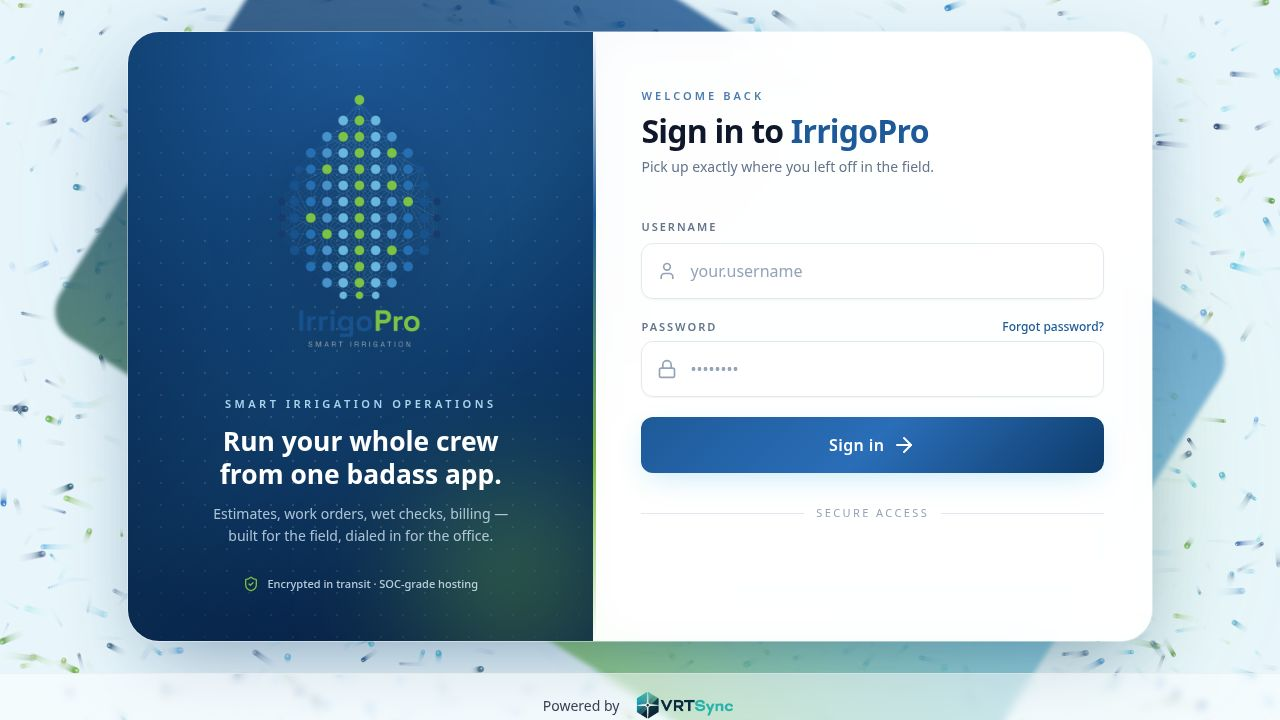
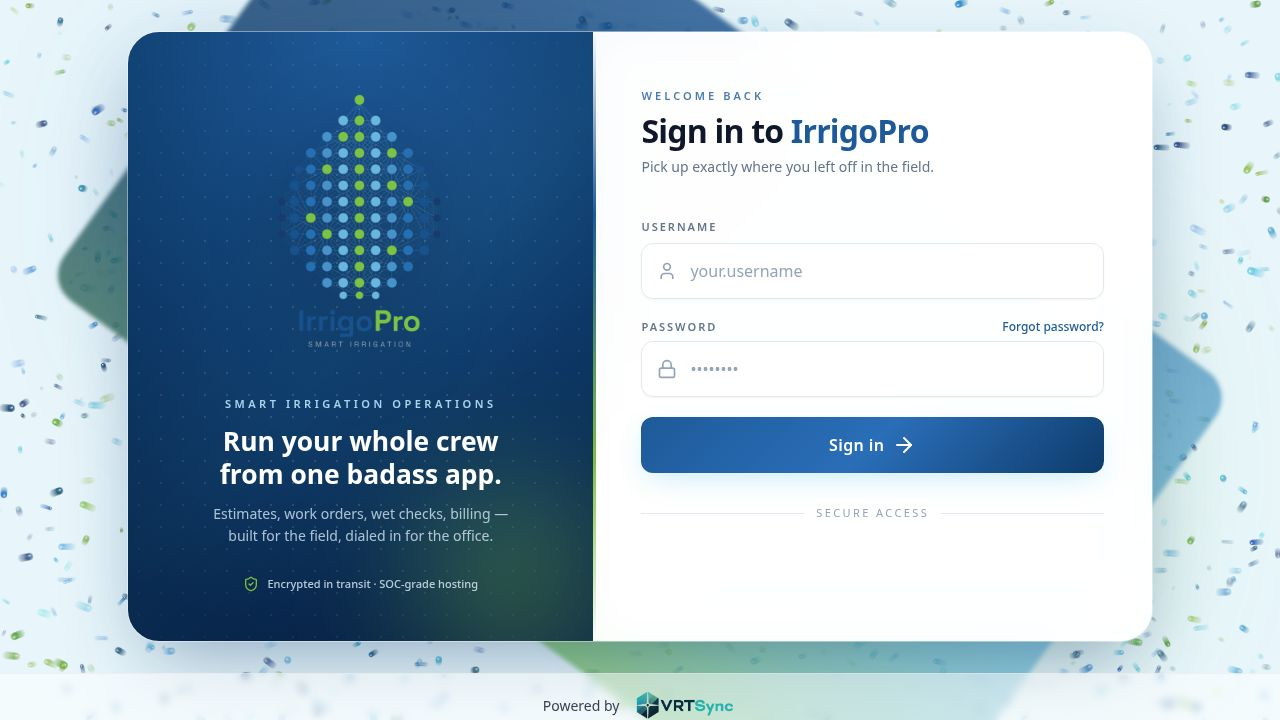
Fix deployment build failure and clean up all typecheck errors
Original task: debug/fix the published build failure, then clear every
`pnpm run typecheck` error across the monorepo.

Deployment blocker (frontend typecheck, which gates `vite build`):
- nav-config.ts: added missing "wetCheckReviews" to the NavBadgeKey union.
- line-items-editor.tsx: wrapped the Lucide <BookOpen> icon in a <span
  title=...> instead of passing aria-label/title directly to the icon.

api-server typecheck cleanup (test-only + session typing; does not affect
the esbuild deploy build but breaks `pnpm run typecheck`):
- types/express.d.ts: replaced the hand-written `session` property on
  Express.Request with a `declare module "express-session"` SessionData
  augmentation (userId/companyId/role). This resolves the intermittent
  "userId does not exist on Session & Partial<SessionData>" errors and
  keeps native regenerate/save/destroy. Kept all other Request
  augmentations.
- PDF test fixtures: added required WcvZone fields (zoneRecordId,
  repairLaborManuallySet, zonePhotoUrls), PdfWorkOrderRow/
  PdfBillingSheetRow fields (controllerLetter, zoneNumber), and
  WetCheckBillingView fields (totalsSource, zonesHaveStaleLaborData).
- wet-check-inspection-estimate.test.ts: widened STUB_WC.fullyConvertedAt
  to `string | null` to match the reverted payload shape.
- billing-workspace-role-access.test.ts: buildApp now takes an optional
  companyId arg passed through to makeAuth.
- zone-labor-auto-compute-routes.test.ts: wrapped req.params.id in
[…]

diff --git a/artifacts/api-server/src/types/express.d.ts b/artifacts/api-server/src/types/express.d.ts
@@ -1,16 +1,16 @@
 export {};
 
+declare module "express-session" {
+  interface SessionData {
+    userId?: number;
+    companyId?: number;
+    role?: string;
+  }
+}
+
 declare global {
   namespace Express {
     interface Request {
-      session: Record<string, unknown> & {
-        userId?: number;
-        companyId?: number;
-        role?: string;
-        destroy(callback: (err?: Error) => void): void;
-        save(callback?: (err?: Error) => void): void;
-        regenerate(callback: (err?: Error) => void): void;
-      };
       authenticatedUserId?: number;
       authenticatedUserRole?: string;
       authenticatedUserCompanyId?: number | null;

diff --git a/artifacts/api-server/src/pdf-helpers-wcb.test.ts b/artifacts/api-server/src/pdf-helpers-wcb.test.ts
@@ -18,6 +18,7 @@ import assert from "node:assert/strict";
 import { ticketPageWCB, ticketPageBS, ticketPageWO, partsBlockForWetCheckBS, FAILED_PHOTO_SENTINEL, buildFullCSS, JOB_TYPE_COLORS } from "./pdf-helpers";
 import type { WcbZonePhotoGroupResolved } from "./pdf-helpers";
 import { DEFAULT_BRAND_COLORS } from "./pdf-view-model";
+import type { PdfWorkOrderRow, PdfBillingSheetRow } from "./pdf-view-model";
 import type { PdfWetCheckBillingRow } from "./pdf-view-model";
 import type { WetCheckBillingView } from "./wet-check-billing-view";
 
@@ -195,7 +196,10 @@ function makeWetCheckView(): WetCheckBillingView {
         controllerLetter: "A",
         zoneNumber: 1,
         zoneLabel: "A-1",
+        zoneRecordId: 101,
         repairLaborHours: "1.00",
+        repairLaborManuallySet: false,
+        zonePhotoUrls: [],
         lineItems: [
           {
             findingId: 1,
@@ -210,6 +214,7 @@ function makeWetCheckView(): WetCheckBillingView {
             lineTotal: "55.00",
             noPartNeeded: false,
             notes: null,
+            findingPhotoUrls: [],
           },
         ],
         zonePartsSubtotal: "15.00",
@@ -220,7 +225,10 @@ function makeWetCheckView(): WetCheckBillingView {
         controllerLetter: "B",
         zoneNumber: 2,
         zoneLabel: "B-2",
+        zoneRecordId: 102,
         repairLaborHours: "0.50",
+        repairLaborManuallySet: false,
+        zonePhotoUrls: [],
         lineItems: [
           {
             findingId: 2,
@@ -235,6 +243,7 @@ function makeWetCheckView(): WetCheckBillingView {
             lineTotal: "60.00",
             noPartNeeded: false,
             notes: null,
+            findingPhotoUrls: [],
           },
         ],
         zonePartsSubtotal: "20.00",
@@ -246,6 +255,8 @@ function makeWetCheckView(): WetCheckBillingView {
     partsSubtotal: "35.00",
     laborSubtotal: "80.00",
     grandTotal: "115.00",
+    totalsSource: "live_derive",
+    zonesHaveStaleLaborData: false,
   };
 }
 
@@ -415,6 +426,8 @@ const minimalWO: PdfWorkOrderRow = {
   projectName: "Test Project",
   projectAddress: "1 Main St",
   branchName: null,
+  controllerLetter: null,
+  zoneNumber: null,
   locationNotes: "",
   technicianName: "Tech A",
   completedAt: null,
@@ -437,6 +450,8 @@ const minimalBS: PdfBillingSheetRow = {
   workDescription: "",
   propertyAddress: "1 Main St",
   branchName: null,
+  controllerLetter: null,
+  zoneNumber: null,
   technicianName: "Tech B",
   workDate: new Date("2026-05-15"),
   totalHours: 1,

diff --git a/artifacts/api-server/src/pdf-helpers-wet-check.test.ts b/artifacts/api-server/src/pdf-helpers-wet-check.test.ts
@@ -31,7 +31,10 @@ const FIXTURE: WetCheckBillingView = {
       controllerLetter: 'A',
       zoneNumber: 1,
       zoneLabel: 'A-1',
+      zoneRecordId: 101,
       repairLaborHours: '1.50',
+      repairLaborManuallySet: false,
+      zonePhotoUrls: [],
       lineItems: [
         {
           findingId: 1,
@@ -46,6 +49,7 @@ const FIXTURE: WetCheckBillingView = {
           lineTotal: '86.25',
           noPartNeeded: false,
           notes: null,
+          findingPhotoUrls: [],
         },
         {
           // labor-only: noPartNeeded=true, partsTotal=$0 — must appear
@@ -61,6 +65,7 @@ const FIXTURE: WetCheckBillingView = {
           lineTotal: '18.75',
           noPartNeeded: true,
           notes: 'Adjusted spray arc',
+          findingPhotoUrls: [],
         },
         {
           // $0.00 non-labor-only: must be ABSENT
@@ -76,6 +81,7 @@ const FIXTURE: WetCheckBillingView = {
           lineTotal: '37.50',
           noPartNeeded: false,
           notes: null,
+          findingPhotoUrls: [],
         },
       ],
       zonePartsSubtotal: '30.00',
@@ -86,7 +92,10 @@ const FIXTURE: WetCheckBillingView = {
       controllerLetter: 'B',
       zoneNumber: 2,
       zoneLabel: 'B-2',
+      zoneRecordId: 102,
       repairLaborHours: '0.50',
+      repairLaborManuallySet: false,
+      zonePhotoUrls: [],
       lineItems: [
         {
           findingId: 4,
@@ -101,6 +110,7 @@ const FIXTURE: WetCheckBillingView = {
           lineTotal: '52.50',
           noPartNeeded: false,
           notes: null,
+          findingPhotoUrls: [],
         },
       ],
       zonePartsSubtotal: '15.00',
@@ -112,6 +122,8 @@ const FIXTURE: WetCheckBillingView = {
   partsSubtotal: '45.00',
   laborSubtotal: '150.00',
   grandTotal: '195.00',
+  totalsSource: 'live_derive',
+  zonesHaveStaleLaborData: false,
 };
 
 // ── Tests ─────────────────────────────────────────────────────────────────────

diff --git a/artifacts/irrigopro/src/components/billing-workspace/line-items-editor.tsx b/artifacts/irrigopro/src/components/billing-workspace/line-items-editor.tsx
@@ -229,11 +229,9 @@ export function LineItemsEditor({
                     <td className="px-1 py-1">
                       <div className="flex items-center gap-1">
                         {row.partId != null && (
-                          <BookOpen
-                            className="w-3 h-3 text-blue-400 shrink-0"
-                            aria-label="From catalog"
-                            title="From parts catalog"
-                          />
+                          <span title="From parts catalog" className="shrink-0 flex items-center">
+                            <BookOpen className="w-3 h-3 text-blue-400" />
+                          </span>
                         )}
                         <input
                           type="text"

diff --git a/artifacts/api-server/src/routes/zone-labor-auto-compute-routes.test.ts b/artifacts/api-server/src/routes/zone-labor-auto-compute-routes.test.ts
@@ -100,7 +100,7 @@ function buildApp(opts: ServerOpts): Express {
       res.status(403).json({ message: "Forbidden" }); return;
     }
     try {
-      const updated = await storage.resetZoneRepairLabor(parseInt(req.params.id, 10), cid);
+      const updated = await storage.resetZoneRepairLabor(parseInt(String(req.params.id), 10), cid);
       if (!updated) { res.status(404).json({ message: "Not found" }); return; }
       res.json(updated);
     } catch (e: any) {
@@ -120,7 +120,7 @@ function buildApp(opts: ServerOpts): Express {
     }
     try {
       const updated = await storage.setZoneRepairLaborManagerTier(
-        parseInt(req.params.id, 10),
+        parseInt(String(req.params.id), 10),
         cid,
         parsed.data.repairLaborHours,
       );
@@ -142,7 +142,7 @@ function buildApp(opts: ServerOpts): Express {
     if (!parsed.success) {
       res.status(400).json({ message: "Invalid body", issues: parsed.error.issues }); return;
     }
-    const wcbId = parseInt(req.params.id, 10);
+    const wcbId = parseInt(String(req.params.id), 10);
     if (!Number.isFinite(wcbId)) {
       res.status(400).json({ message: "Invalid id" }); return;
     }

diff --git a/artifacts/api-server/src/routes/billing-workspace-role-access.test.ts b/artifacts/api-server/src/routes/billing-workspace-role-access.test.ts
@@ -34,10 +34,10 @@ function makeAuth(role: string, companyId: number | null = 1): RequestHandler {
   };
 }
 
-function buildApp(role: string) {
+function buildApp(role: string, companyId: number | null = 1) {
   const app = express();
   app.use(express.json());
-  const auth = makeAuth(role);
+  const auth = makeAuth(role, companyId);
   registerBillingWorkspaceRoutes(app, { requireAuthentication: auth });
   registerBillingWorkspaceBulkApproveRoutes(app, { requireAuthentication: auth });
   return app;

diff --git a/artifacts/api-server/src/routes/billing-workspace-bulk-approve.test.ts b/artifacts/api-server/src/routes/billing-workspace-bulk-approve.test.ts
@@ -87,7 +87,7 @@ async function post(app: Express, body: unknown) {
       headers: { "Content-Type": "application/json" },
       body: JSON.stringify(body),
     });
-    return { status: r.status, body: await r.json() };
+    return { status: r.status, body: await r.json() as Record<string, any> };
   } finally {
     server.close();
   }

diff --git a/artifacts/api-server/src/routes/wet-check-inspection-estimate.test.ts b/artifacts/api-server/src/routes/wet-check-inspection-estimate.test.ts
@@ -35,7 +35,7 @@ const STUB_WC = {
   id: 7,
   mode: "inspection",
   status: "converted",
-  fullyConvertedAt: new Date().toISOString(),
+  fullyConvertedAt: new Date().toISOString() as string | null,
 };
 
 // ─── Harness ──────────────────────────────────────────────────────────────────

diff --git a/artifacts/api-server/src/routes/work-order-list-tenant-isolation.test.ts b/artifacts/api-server/src/routes/work-order-list-tenant-isolation.test.ts
@@ -86,7 +86,7 @@ function startHarness(): Promise<Harness> {
       resolve({
         baseUrl: `http://127.0.0.1:${port}`,
         storage,
-        close: () => new Promise((r) => server.close(r)),
+        close: () => new Promise<void>((resolve) => server.close(() => resolve())),
       });
     });
   });

diff --git a/artifacts/irrigopro/src/components/layout/nav-config.ts b/artifacts/irrigopro/src/components/layout/nav-config.ts
@@ -27,6 +27,7 @@ import {
 
 export type NavBadgeKey =
   | "partsPendingApproval"
+  | "wetCheckReviews"
   | "estimatesPendingApproval"
   | "awaitingApproval";
 

diff --git a/.agents/memory/session-typing.md b/.agents/memory/session-typing.md
@@ -1,0 +1,31 @@
+---
+name: express session typing
+description: Where custom session fields (userId/companyId/role) must be declared in the api-server
+---
+
+# Express session custom fields belong on express-session's SessionData
+
+Custom session fields (`userId`, `companyId`, `role`) must be added by augmenting
+`express-session`'s `SessionData` interface, NOT by declaring a `session` property
+on `Express.Request`:
+
+```ts
+declare module "express-session" {
+  interface SessionData {
+    userId?: number;
+    companyId?: number;
+    role?: string;
+  }
+}
+```
+
+**Why:** The api-server depends on both `express-session` and `@types/express-session`.
+Those types already declare `req.session: Session & Partial<SessionData>` (which natively
+provides `regenerate/save/destroy/reload/touch`). A second manual `session` property
+declaration on `Express.Request` collides with that, producing intermittent
+"Property 'userId' does not exist on type 'Session & Partial<SessionData>'" errors at
+some call sites but not others.
+
+**How to apply:** When you need a new server-side session field, add it to the
+`SessionData` augmentation in `artifacts/api-server/src/types/express.d.ts`. Never
+re-introduce a hand-written `session: ...` member on the `Express.Request` interface.

diff --git a/.agents/memory/MEMORY.md b/.agents/memory/MEMORY.md
@@ -1,2 +1,3 @@
 - [Testable route extraction pattern](route-extraction-pattern.md) — extract inline handlers to separate modules for storage-spy tests; never mirror handler logic in tests.
 - [offline-photo-FK-anchor](offline-photo-FK-anchor.md) — queuePhotoUpload body must include zoneRecordId/findingId; absence causes every photo to land loose.
+- [express session typing](session-typing.md) — custom session fields go on express-session's SessionData augmentation, never a manual session prop on Express.Request.